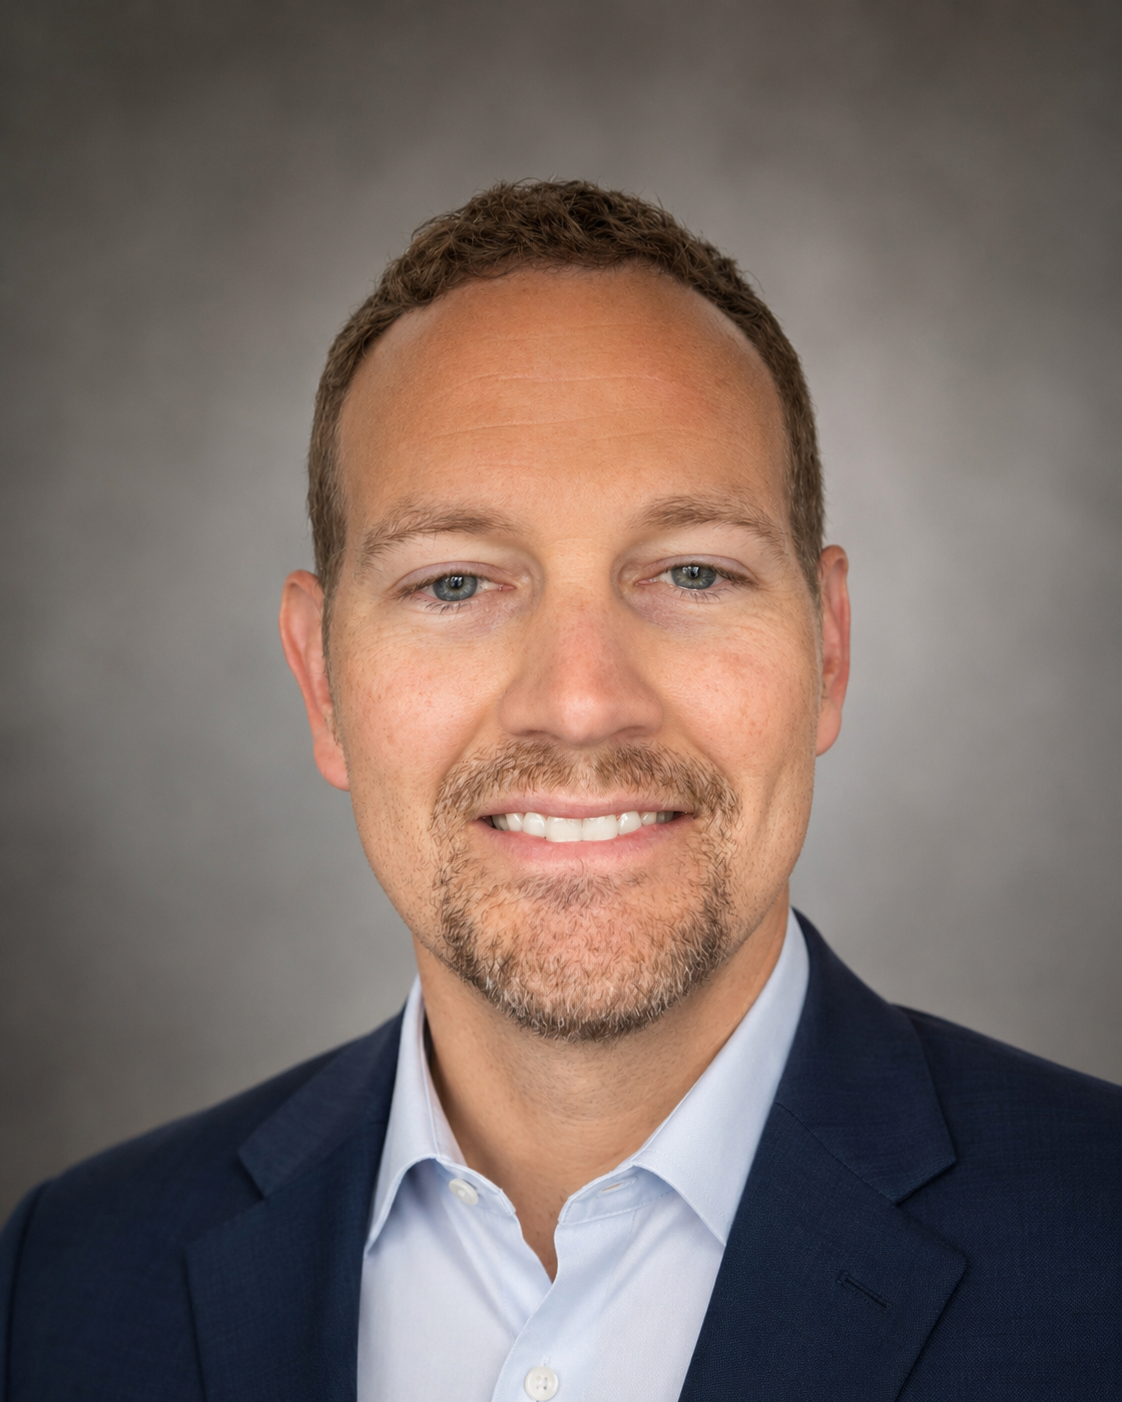
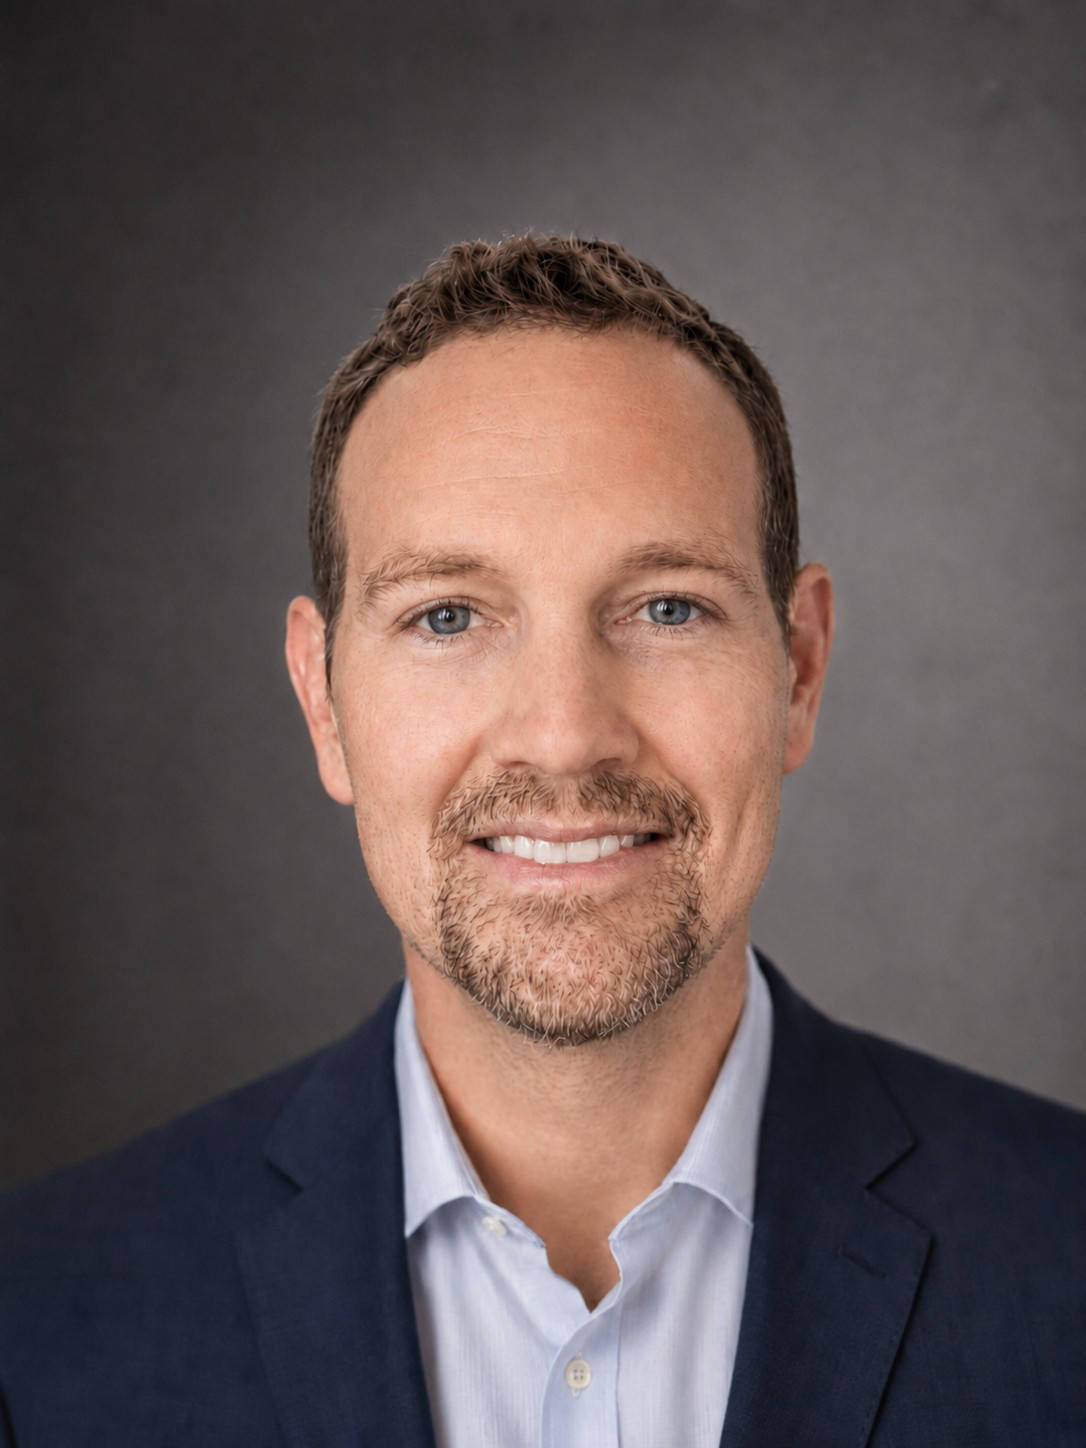
Extend global starfield across the full page and reorder Future Thesis below experience.
Remove hero-only starfield and opaque section fills so the deepfield canvas shows through every section, and move Future Thesis after Systems in the page flow and navigation.

diff --git a/index.html b/index.html
@@ -14,7 +14,7 @@
       min-height: 100dvh;
       display: flex;
       align-items: center;
-      background: #020202;
+      background: transparent;
       overflow: hidden;
     }
     .hero-inner {
@@ -110,8 +110,8 @@
 
     <nav class="nav" id="nav">
       <a href="#value-agenda">Value Agenda</a>
-      <a href="#long-bets">Future Thesis</a>
       <a href="#systems">Systems</a>
+      <a href="#long-bets">Future Thesis</a>
       <a href="#stack">Stack</a>
     </nav>
 
@@ -127,7 +127,6 @@
 
 <!-- Hero -->
 <section class="hero">
-  <canvas id="starfield" aria-hidden="true"></canvas>
   <div class="container hero-inner">
     <div class="hero-layout hero-layout--focused">
       <div class="hero-copy">
@@ -317,34 +316,6 @@
   </div>
 </section>
 
-<!-- Future Thesis + Simulator -->
-<section id="long-bets" class="section">
-  <div class="container">
-    <div class="section-head">
-      <span class="eyebrow">Future Thesis</span>
-      <h2 style="margin:10px 0 14px;">AI will change finance. Space will change the time horizon.</h2>
-      <p style="color:var(--text-secondary); max-width:62ch;">
-        I want to work where financial leadership is not just backward-looking stewardship, but the operating system for sharper strategic choices, faster learning, better automation, and disciplined investment in the next industrial frontier.
-      </p>
-    </div>
-
-    <div class="horizon-grid" style="margin-top:38px;">
-      <div class="horizon-card">
-        <div class="icon"><i data-lucide="cpu"></i></div>
-        <h3>AI-native finance leadership</h3>
-        <p>AI is not a replacement for financial discipline. It is the sensor layer, pattern engine, and automation layer that lets a finance team see earlier and act faster. The job is to pair models with controls, judgment, operating context, and the few use cases that actually create value.</p>
-        <p style="margin-top:14px; font-size:14px; color:var(--text-muted);">The future-ready CFO will know how to turn finance operations into an intelligence system without mistaking pilots for transformation.</p>
-      </div>
-      <div class="horizon-card">
-        <div class="icon"><i data-lucide="rocket"></i></div>
-        <h3>Space-era capital allocation</h3>
-        <p>A world that inhabits space will need CFOs who can reason across longer timelines, deeper technical uncertainty, and heavier infrastructure bets. The principles are familiar: clear strategic choice, staged commitments, rigorous milestones, fast learning loops, and humility when physics or economics change.</p>
-        <p style="margin-top:14px; font-size:14px; color:var(--text-muted);">The organizations that matter in 2050 will be the ones funding the right hard things now.</p>
-      </div>
-    </div>
-  </div>
-</section>
-
 <!-- Systems Shipped -->
 <section id="systems" class="section section--elev">
   <div class="container">
@@ -413,6 +384,34 @@
   </div>
 </section>
 
+<!-- Future Thesis -->
+<section id="long-bets" class="section">
+  <div class="container">
+    <div class="section-head">
+      <span class="eyebrow">Future Thesis</span>
+      <h2 style="margin:10px 0 14px;">AI will change finance. Space will change the time horizon.</h2>
+      <p style="color:var(--text-secondary); max-width:62ch;">
+        I want to work where financial leadership is not just backward-looking stewardship, but the operating system for sharper strategic choices, faster learning, better automation, and disciplined investment in the next industrial frontier.
+      </p>
+    </div>
+
+    <div class="horizon-grid" style="margin-top:38px;">
+      <div class="horizon-card">
+        <div class="icon"><i data-lucide="cpu"></i></div>
+        <h3>AI-native finance leadership</h3>
+        <p>AI is not a replacement for financial discipline. It is the sensor layer, pattern engine, and automation layer that lets a finance team see earlier and act faster. The job is to pair models with controls, judgment, operating context, and the few use cases that actually create value.</p>
+        <p style="margin-top:14px; font-size:14px; color:var(--text-muted);">The future-ready CFO will know how to turn finance operations into an intelligence system without mistaking pilots for transformation.</p>
+      </div>
+      <div class="horizon-card">
+        <div class="icon"><i data-lucide="rocket"></i></div>
+        <h3>Space-era capital allocation</h3>
+        <p>A world that inhabits space will need CFOs who can reason across longer timelines, deeper technical uncertainty, and heavier infrastructure bets. The principles are familiar: clear strategic choice, staged commitments, rigorous milestones, fast learning loops, and humility when physics or economics change.</p>
+        <p style="margin-top:14px; font-size:14px; color:var(--text-muted);">The organizations that matter in 2050 will be the ones funding the right hard things now.</p>
+      </div>
+    </div>
+  </div>
+</section>
+
 <!-- Capabilities / Stack -->
 <section id="stack" class="section">
   <div class="container">
@@ -473,7 +472,7 @@
 </section>
 
 <!-- Final Signal -->
-<section class="section section--signal" style="border-top:1px solid var(--line); background:rgba(2,2,2,0.82);">
+<section class="section section--signal" style="border-top:1px solid var(--line);">
   <div class="container">
     <div class="signal">
       <span class="eyebrow">Signal</span>
@@ -504,8 +503,8 @@
     </div>
     <div style="display:flex; gap:16px; font-size:12px;">
       <a href="#value-agenda">Value Agenda</a>
-      <a href="#long-bets">Future Thesis</a>
       <a href="#systems">Systems</a>
+      <a href="#long-bets">Future Thesis</a>
       <a href="#stack">Stack</a>
     </div>
   </div>
@@ -628,7 +627,7 @@ function initDeepfield() {
         y: Math.random() * h,
         z: Math.random() * 0.8 + 0.2,
         r: bright ? Math.random() * 2.2 + 1.2 : Math.random() * 1.15 + 0.45,
-        a: bright ? Math.random() * 0.34 + 0.66 : Math.random() * 0.38 + 0.34,
+        a: bright ? Math.random() * 0.38 + 0.72 : Math.random() * 0.42 + 0.42,
         tw: Math.random() * Math.PI * 2,
         drift: Math.random() * 0.05 + 0.012,
         color: warm ? '201, 162, 110' : (i % 11 === 0 ? '95, 209, 198' : '245, 245, 245')
@@ -701,142 +700,6 @@ function initDeepfield() {
   }
 
   init();
-}
-
-// Lightweight, high-performance starfield + occasional trajectories
-function initStarfield() {
-  const canvas = document.getElementById('starfield');
-  if (!canvas) return;
-
-  const ctx = canvas.getContext('2d', { alpha: true });
-  let w, h, stars = [], lines = [];
-  let mx = 0.5, my = 0.5;
-  let initialized = false;
-  const prefersReduced = window.matchMedia('(prefers-reduced-motion: reduce)').matches;
-
-  function resize() {
-    const rect = canvas.getBoundingClientRect();
-    const dpr = Math.min(window.devicePixelRatio || 1, 2);
-    w = rect.width;
-    h = rect.height;
-    canvas.width = Math.floor(w * dpr);
-    canvas.height = Math.floor(h * dpr);
-    ctx.setTransform(dpr, 0, 0, dpr, 0, 0);
-  }
-
-  function createStars(n) {
-    stars = [];
-    for (let i = 0; i < n; i++) {
-      stars.push({
-        x: Math.random() * w,
-        y: Math.random() * h,
-        r: Math.random() * 1.35 + 0.45,
-        a: Math.random() * 0.5 + 0.48,
-        vx: (Math.random() - 0.5) * 0.012,
-        vy: (Math.random() - 0.5) * 0.008
-      });
-    }
-  }
-
-  function createLines(n) {
-    lines = [];
-    for (let i = 0; i < n; i++) {
-      lines.push({
-        x: Math.random() * w,
-        y: Math.random() * h * 0.7,
-        len: 40 + Math.random() * 90,
-        a: 0.08 + Math.random() * 0.12,
-        vy: 0.12 + Math.random() * 0.18
-      });
-    }
-  }
-
-  let last = 0;
-  function draw(ts = 0) {
-    if (!last) last = ts;
-    const dt = Math.min(32, ts - last);
-    last = ts;
-
-    ctx.clearRect(0, 0, w, h);
-
-    const px = (mx - 0.5) * 18;
-    const py = (my - 0.5) * 10;
-
-    // stars
-    ctx.fillStyle = '#f5f5f5';
-    for (const s of stars) {
-      if (!prefersReduced) {
-        s.x += s.vx * (dt / 16);
-        s.y += s.vy * (dt / 16);
-        if (s.x < 0) s.x = w;
-        if (s.x > w) s.x = 0;
-        if (s.y < 0) s.y = h;
-        if (s.y > h) s.y = 0;
-      }
-      ctx.globalAlpha = s.a;
-      ctx.beginPath();
-      ctx.arc(s.x + px * 0.3, s.y + py * 0.3, s.r, 0, Math.PI * 2);
-      ctx.fill();
-    }
-
-    // slow trajectory lines (capital allocation paths)
-    ctx.strokeStyle = '#c9a26e';
-    ctx.lineWidth = 0.9;
-    for (const l of lines) {
-      if (!prefersReduced) {
-        l.y += l.vy * (dt / 16) * 0.6;
-        if (l.y > h + 20) {
-          l.y = -30;
-          l.x = Math.random() * w;
-        }
-      }
-      ctx.globalAlpha = l.a;
-      ctx.beginPath();
-      ctx.moveTo(l.x + px * 0.6, l.y + py * 0.6);
-      ctx.lineTo(l.x + px * 0.6, l.y + l.len + py * 0.6);
-      ctx.stroke();
-    }
-    ctx.globalAlpha = 1;
-
-    if (!prefersReduced) requestAnimationFrame(draw);
-  }
-
-  function onMouse(e) {
-    const rect = canvas.getBoundingClientRect();
-    mx = (e.clientX - rect.left) / rect.width;
-    my = (e.clientY - rect.top) / rect.height;
-  }
-
-  function init() {
-    if (initialized) return;
-    initialized = true;
-    resize();
-    createStars(320);
-    createLines(12);
-    window.addEventListener('resize', () => { resize(); createStars(320); createLines(12); }, { passive: true });
-    canvas.addEventListener('mousemove', onMouse, { passive: true });
-    canvas.addEventListener('mouseleave', () => { mx = 0.5; my = 0.5; });
-    if (!prefersReduced) {
-      requestAnimationFrame(draw);
-    } else {
-      // static beautiful field for reduced motion
-      draw();
-    }
-  }
-
-  // Observe for performance — only run when hero is visible
-  const hero = canvas.closest('.hero');
-  if ('IntersectionObserver' in window && hero) {
-    const io = new IntersectionObserver((entries) => {
-      if (entries[0].isIntersecting) {
-        init();
-        io.disconnect();
-      }
-    }, { threshold: 0.1 });
-    io.observe(hero);
-  } else {
-    init();
-  }
 }
 
 // Live First Principles Simulator
@@ -973,7 +836,6 @@ document.addEventListener('DOMContentLoaded', () => {
   initKeyboard();
   initBackdrop();
   initDeepfield();
-  initStarfield();
   initSimulator();
   initCounters();
 });

diff --git a/css/ds.css b/css/ds.css
@@ -148,10 +148,7 @@ html { scroll-behavior: smooth; }
 body {
   margin: 0;
   min-height: 100vh;
-  background:
-    radial-gradient(circle at 18% 12%, rgba(201, 162, 110, 0.07), transparent 28%),
-    radial-gradient(circle at 82% 2%, rgba(95, 209, 198, 0.08), transparent 30%),
-    linear-gradient(180deg, #020202 0%, var(--bg) 42%, #030302 100%);
+  background: #020202;
   color: var(--text);
   font-family: var(--font-sans);
   font-size: var(--fs-body-m);
@@ -204,6 +201,7 @@ p:last-child { margin-bottom: 0; }
   position: relative;
   padding: var(--section-y) 0;
   overflow: hidden;
+  background: transparent;
 }
 .section > .container { position: relative; z-index: 2; }
 .section::before {
@@ -214,14 +212,11 @@ p:last-child { margin-bottom: 0; }
   pointer-events: none;
   background:
     radial-gradient(circle at 12% 20%, var(--section-glow), transparent 28%),
-    radial-gradient(circle at 88% 68%, rgba(var(--section-rgb), 0.18), transparent 30%),
-    linear-gradient(115deg, transparent 0 56%, rgba(var(--section-rgb), 0.07) 56.08%, transparent 56.22% 100%);
-  opacity: 0.74;
+    radial-gradient(circle at 88% 68%, rgba(var(--section-rgb), 0.12), transparent 30%),
+    linear-gradient(115deg, transparent 0 56%, rgba(var(--section-rgb), 0.05) 56.08%, transparent 56.22% 100%);
+  opacity: 0.55;
 }
 .section--elev {
-  background:
-    linear-gradient(180deg, rgba(10, 10, 10, 0.58), rgba(10, 10, 10, 0.72)),
-    radial-gradient(circle at 90% 15%, rgba(95, 209, 198, 0.07), transparent 30%);
   border-top: 1px solid var(--line);
   border-bottom: 1px solid var(--line);
 }
@@ -237,7 +232,7 @@ p:last-child { margin-bottom: 0; }
   position: sticky;
   top: 0;
   z-index: 100;
-  background: rgba(5,5,5,0.86);
+  background: rgba(5,5,5,0.72);
   -webkit-backdrop-filter: blur(12px) saturate(140%);
   backdrop-filter: blur(12px) saturate(140%);
   border-bottom: 1px solid var(--line);
@@ -586,7 +581,7 @@ p:last-child { margin-bottom: 0; }
 
 /* Footer */
 .site-footer {
-  background: #020202;
+  background: transparent;
   color: var(--text-muted);
   font-size: 13px;
   border-top: 1px solid var(--line);
@@ -615,18 +610,7 @@ p:last-child { margin-bottom: 0; }
   height: 100%;
   z-index: 0;
   pointer-events: none;
-  mix-blend-mode: screen;
   opacity: 1;
-}
-#starfield {
-  position: absolute;
-  inset: 0;
-  width: 100%;
-  height: 100%;
-  z-index: 0;
-  pointer-events: none;
-  mix-blend-mode: screen;
-  opacity: 0.88;
 }
 
 /* Global atmospheric system: grid, grain, orbital arcs */
@@ -637,9 +621,8 @@ p:last-child { margin-bottom: 0; }
   pointer-events: none;
   overflow: hidden;
   background:
-    radial-gradient(circle at calc(18% + var(--mx, 0px)) calc(16% + var(--my, 0px)), rgba(201,162,110,0.10), transparent 26%),
-    radial-gradient(circle at calc(78% - var(--mx, 0px)) calc(18% - var(--my, 0px)), rgba(95,209,198,0.10), transparent 28%),
-    linear-gradient(180deg, #020202 0%, #050505 48%, #020202 100%);
+    radial-gradient(circle at calc(18% + var(--mx, 0px)) calc(16% + var(--my, 0px)), rgba(201,162,110,0.06), transparent 26%),
+    radial-gradient(circle at calc(78% - var(--mx, 0px)) calc(18% - var(--my, 0px)), rgba(95,209,198,0.06), transparent 28%);
 }
 .site-backdrop::before {
   content: '';
@@ -653,7 +636,7 @@ p:last-child { margin-bottom: 0; }
   mask-image: radial-gradient(ellipse at 48% 18%, black 0%, rgba(0,0,0,0.62) 38%, transparent 74%);
   transform: perspective(900px) rotateX(62deg) translateY(-18%);
   transform-origin: 50% 0%;
-  opacity: 0.34;
+  opacity: 0.24;
 }
 .site-backdrop::after {
   content: '';
@@ -665,7 +648,7 @@ p:last-child { margin-bottom: 0; }
     radial-gradient(circle at 58% 74%, rgba(95,209,198,0.16) 0 1px, transparent 1px),
     linear-gradient(115deg, transparent 0 43%, rgba(201,162,110,0.08) 43.08%, transparent 43.2% 100%),
     linear-gradient(74deg, transparent 0 62%, rgba(95,209,198,0.07) 62.08%, transparent 62.2% 100%);
-  opacity: 0.48;
+  opacity: 0.32;
 }
 .orbital-arc {
   position: fixed;
@@ -1098,6 +1081,6 @@ body > *:not(.site-backdrop):not(.orbital-arc):not(#deepfield) {
 .cred .what .org { color: var(--text-muted); font-size: 13.5px; }
 
 @media print {
-  .site-header, .btn, .site-footer, #starfield, #deepfield, .site-backdrop, .orbital-arc { display: none !important; }
+  .site-header, .btn, .site-footer, #deepfield, .site-backdrop, .orbital-arc { display: none !important; }
   body { background: white; color: black; }
 }
